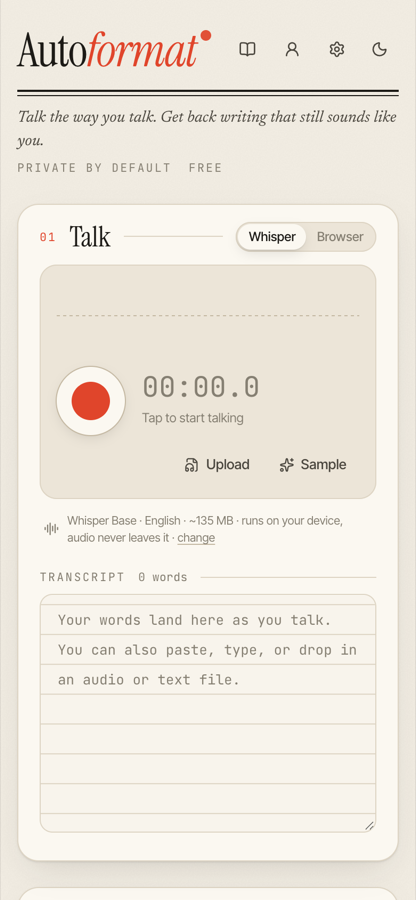
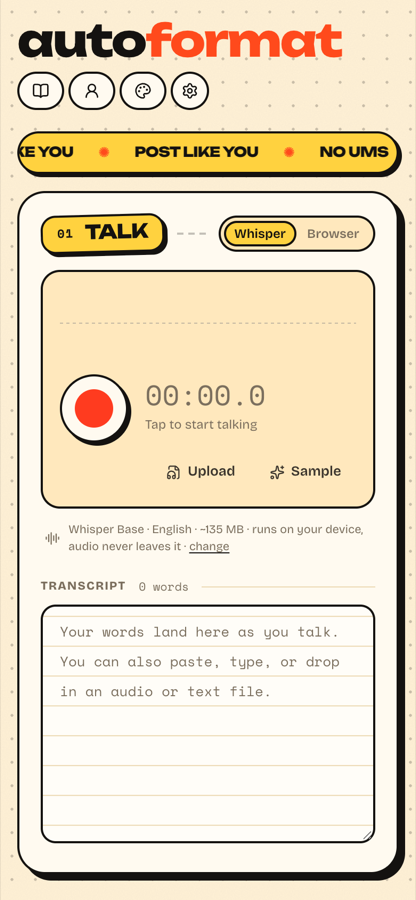
docs: show the new looks in the README

diff --git a/README.md b/README.md
@@ -4,9 +4,9 @@
 
 AutoFormat is a dictation desk for people who'd rather talk than type. Hit record and ramble ("yeah bro, so basically…"). Whisper transcribes it **on your device** while you speak. Then pick a layout and how much polish you want, and you get a blog post, listicle, thread or newsletter that reads like you wrote it on a good day, not like a chatbot rewrote you.
 
-![AutoFormat: a rambling transcript on the left, a formatted post with a voice report on the right](docs/hero-light.png)
+![AutoFormat in the default Yap look: a rambling transcript on the left, a formatted post with a voice report on the right](docs/theme-yap.png)
 
-<p align="center"><img src="docs/hero-dark.png" width="49%" alt="Night desk (dark) theme" /> <img src="docs/changes-panel.png" width="49%" alt="The Changes view: every word that was cut or added" /></p>
+<p align="center"><img src="docs/theme-studio.png" width="49%" alt="The Studio look: dark, with an acid-lime glow" /> <img src="docs/changes-panel.png" width="49%" alt="The Changes view: every word that was cut or added" /></p>
 
 ---
 
@@ -68,10 +68,22 @@ Most "AI formatters" hand your words to a model and get back something that soun
 
   Copy from the Read view puts **rich HTML** on the clipboard, so formatting survives a paste into Google Docs, Notion, Medium or WordPress.
 
+**🎨 Four looks** (Style menu, or <kbd>⌘</kbd><kbd>.</kbd> to flip through them)
+
+| Look | Feel |
+| --- | --- |
+| **Yap** (default) | Loud and tactile: ink outlines, chunky offset shadows, colour-blocked sticker headings, a scrolling ticker. Unbounded + Bricolage Grotesque. |
+| **Studio** | A dark audio plugin with an acid-lime glow. Space Grotesk + Geist. |
+| **Desk** | Editorial paper and ink with one on-air red. Instrument Serif + Newsreader. |
+| **Night Desk** | The desk after dark. |
+
+Themes are more than palettes. Each one sets borders, radii, shadow style, press depth, typography and label treatment through tokens, restyles shared component classes, and has its own masthead.
+
+<p align="center"><img src="docs/style-picker.png" width="80%" alt="The style picker with live previews of each look" /></p>
+
 **✨ Everything else**
 
 - **Searchable drafts:** the last 50, stored only in your browser.
-- **Themes:** light "paper" and dark "night desk", following your OS until you choose.
 - **Installable PWA:** the app shell works offline, and models are cached after their first download.
 - **Keyboard first:**
 
@@ -82,7 +94,7 @@ Most "AI formatters" hand your words to a model and get back something that soun
 | <kbd>⌘</kbd><kbd>↵</kbd> | Format |
 | <kbd>⌘</kbd><kbd>⇧</kbd><kbd>C</kbd> | Copy |
 | <kbd>⌘</kbd><kbd>K</kbd> | Drafts |
-| <kbd>⌘</kbd><kbd>.</kbd> | Theme |
+| <kbd>⌘</kbd><kbd>.</kbd> | Change the look |
 | <kbd>?</kbd> | Help |
 
 <p align="center"><img src="docs/voice.png" width="70%" alt="Voice profile: words that stay, misheard-word fixes, writing samples" /></p>
@@ -146,7 +158,8 @@ Pick the editor, open **Settings**, choose a preset or paste a base URL and key,
 ```
 src/
 ├── App.tsx                    orchestration, shortcuts, theme, toasts
-├── components/                Talk / Shape / Page panels, dialogs, waveform, layout thumbnails
+├── components/                Talk / Shape / Page panels, mastheads, dialogs, waveform, layout thumbnails
+├── styles/                    themes.css (tokens per look), components.css (semantic classes)
 ├── hooks/                     useRecorder (worklet + analyser), useTheme, useSpeech, …
 ├── workers/ml.worker.ts       Whisper + in-browser LLMs
 └── lib/
